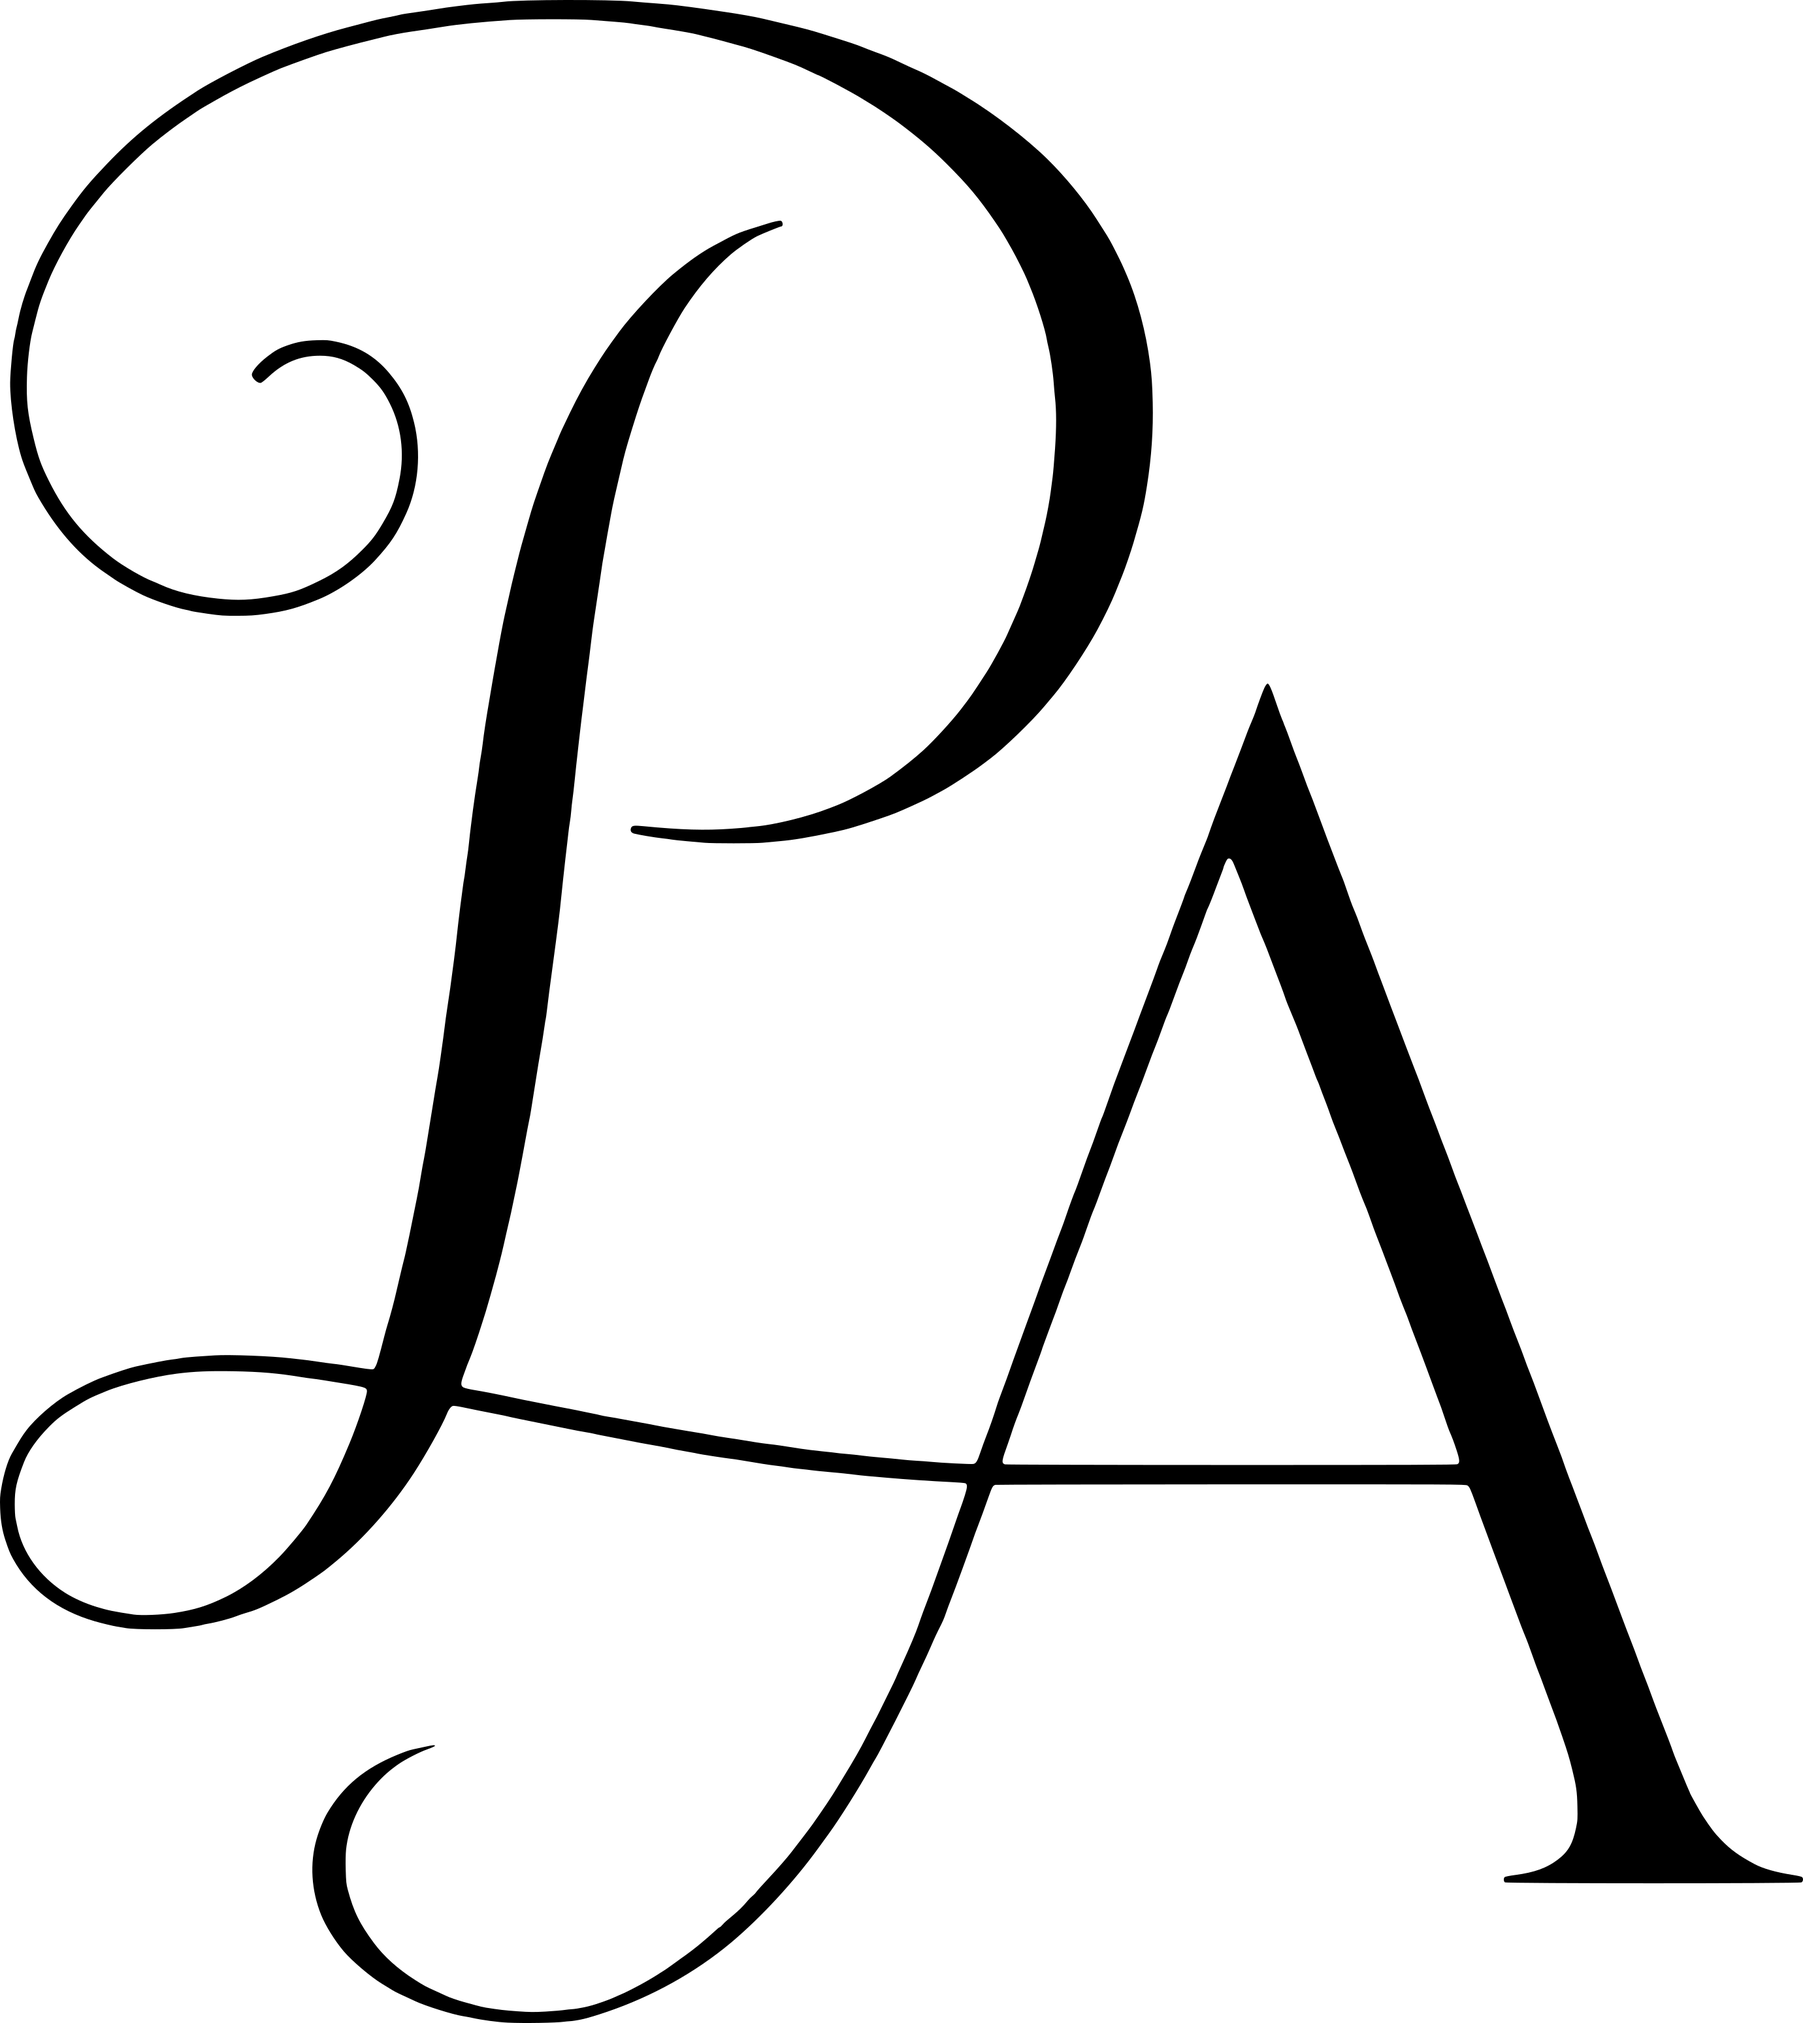
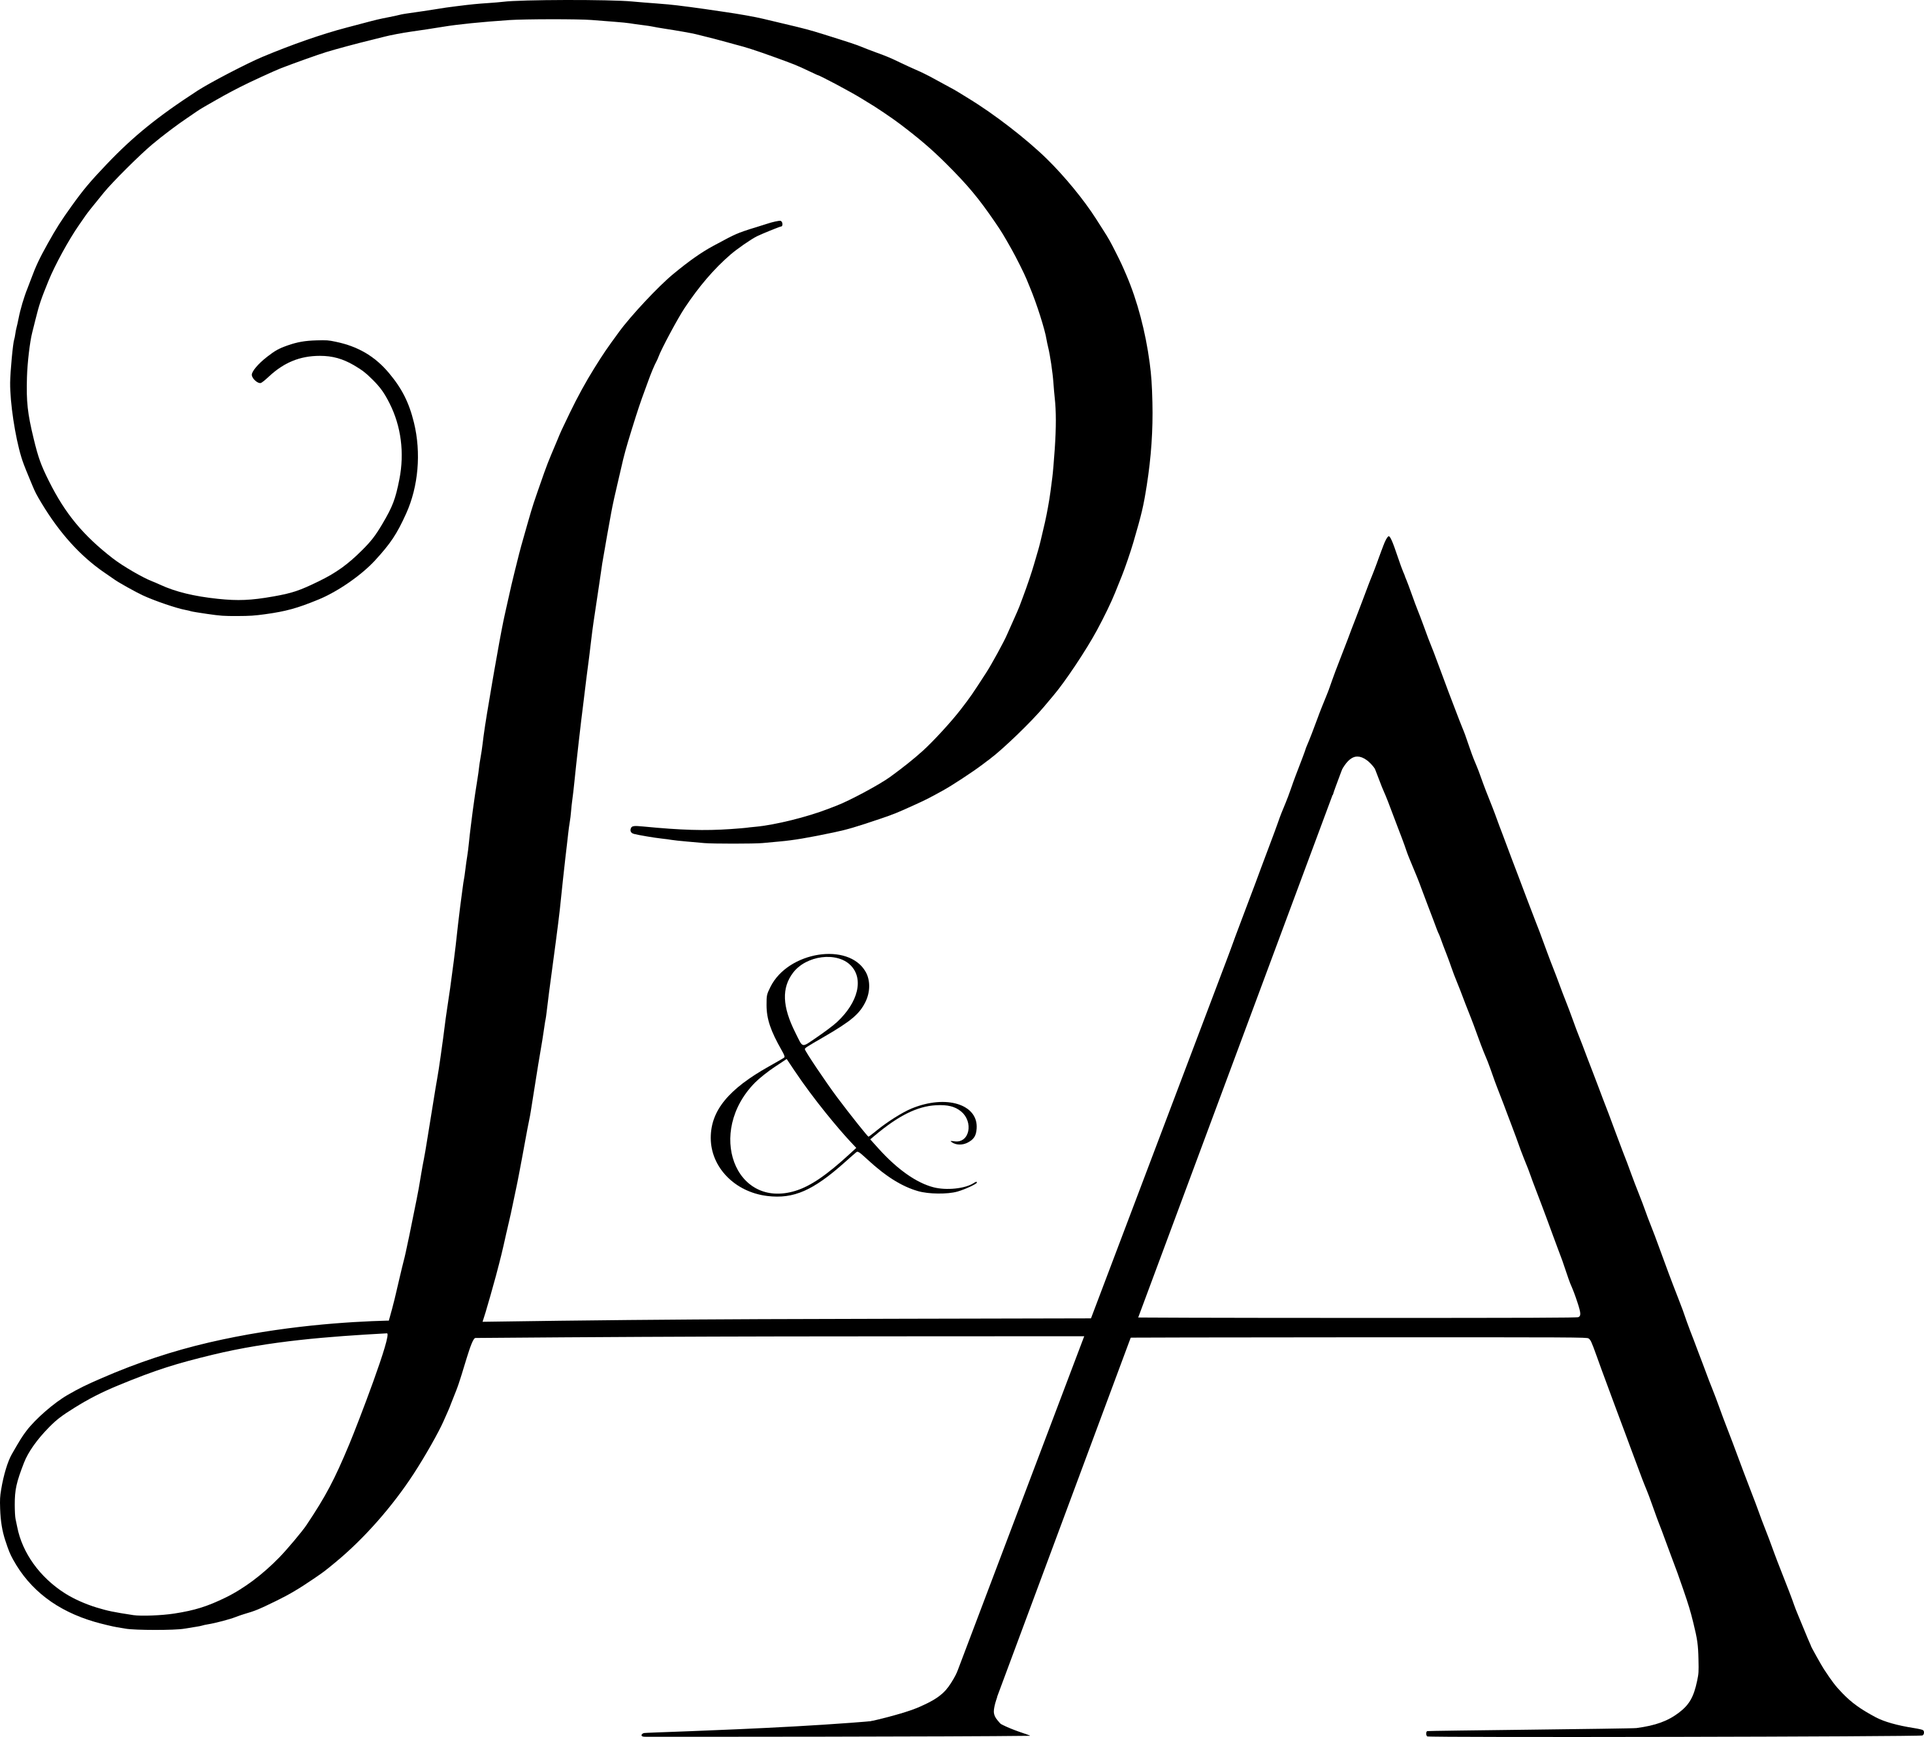
Configurar metadatos y vista previa de la web

diff --git a/index.html b/index.html
@@ -5,7 +5,27 @@
   <meta charset="UTF-8">
   <meta name="viewport" content="width=device-width, initial-scale=1.0">
 
-  <title>Boda Álvaro & Pilar</title>
+  <title>Álvaro & Pilar | 27.02.2027</title>
+  <meta
+  name="description"
+  content="Toda la información sobre nuestra boda. ¡Nos vemos el 27 de febrero de 2027!"
+  >
+  <link rel="icon" type="image/png" href="images/letras.png">
+
+  <meta property="og:title" content="Álvaro & Pilar | 27.02.2027">
+
+<meta
+  property="og:description"
+  content="Toda la información sobre nuestra boda. ¡Nos vemos el 27 de febrero de 2027!"
+>
+
+<meta
+  property="og:image"
+  content="https://alvaroypilar.es/images/letras.png"
+>
+
+<meta property="og:url" content="https://alvaroypilar.es/">
+<meta property="og:type" content="website">
 
   <link rel="stylesheet" href="styles.css">
 </head>
